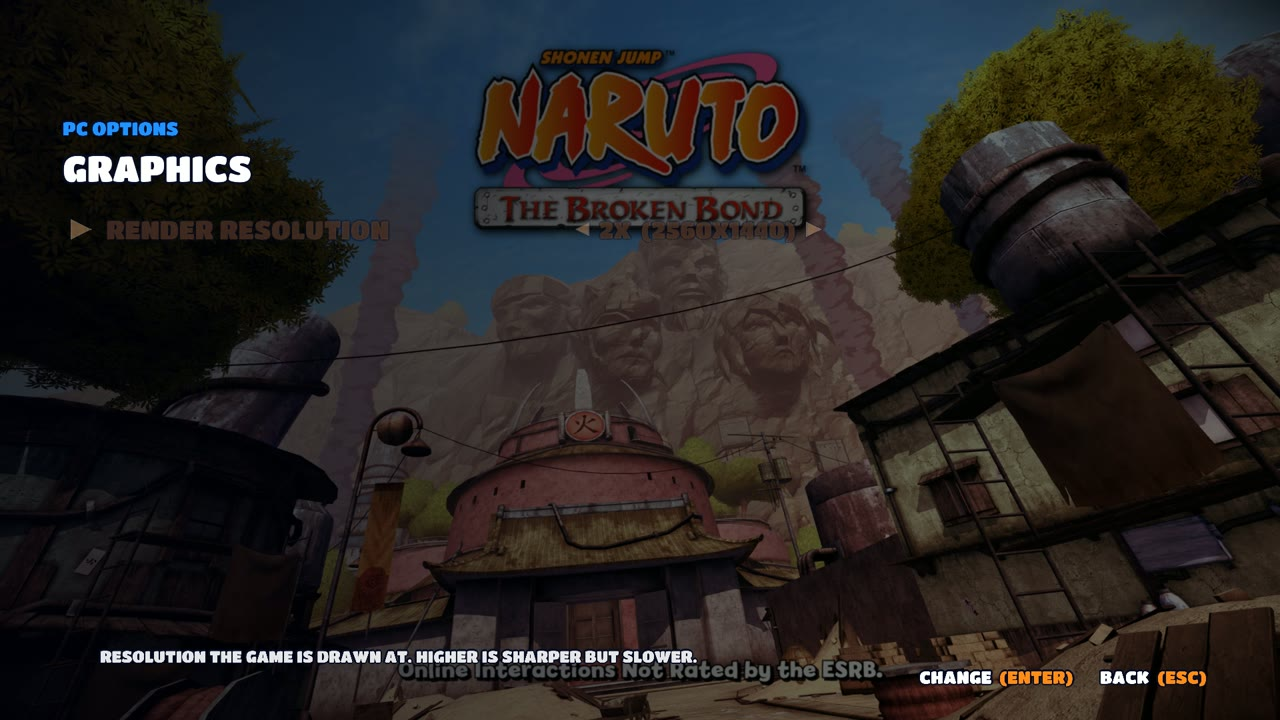
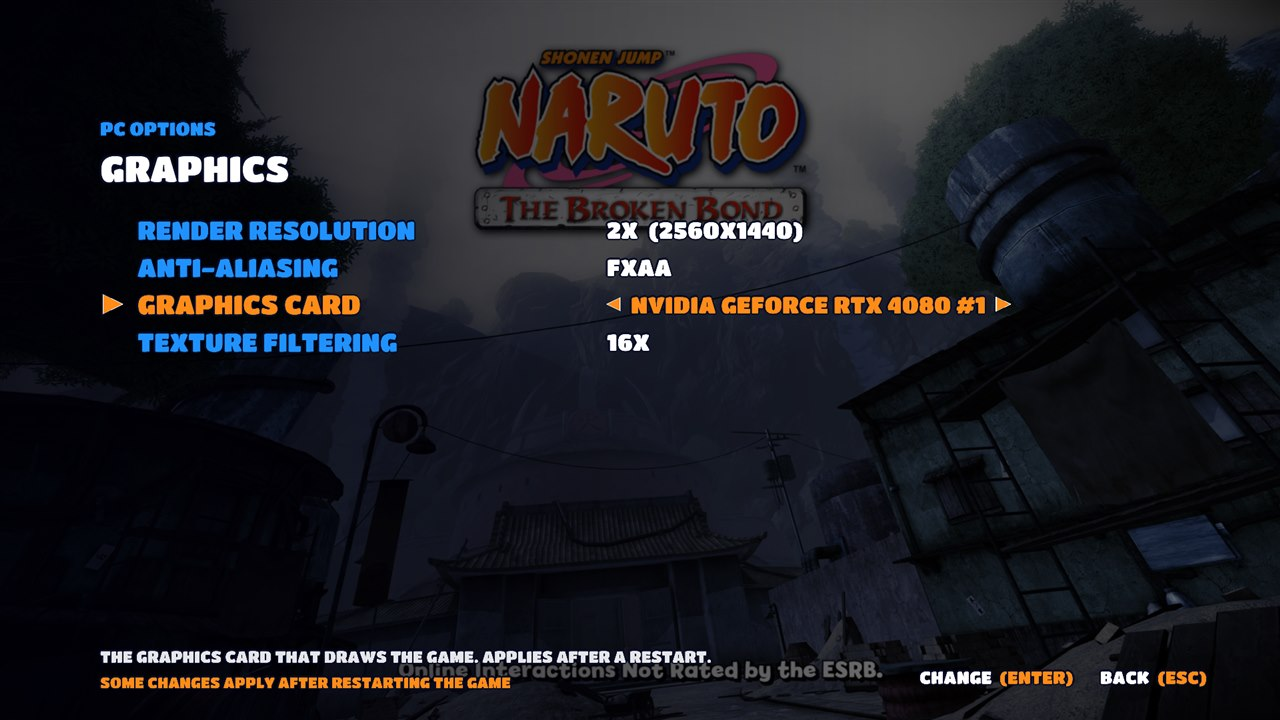
v1.1: ultrawide aspect ratios and graphics card picker
- PC Options > Display > Aspect Ratio: 16:9, 21:9, 32:9 or automatic. The game's camera sees
  wider and the presenter stretches the frame to the wider shape (the Rise of a Ninja port's
  method; the SDK patch now includes the presenter change).
- PC Options > Graphics > Graphics Card on PCs with more than one card; settings the engine only
  reads at startup can now be changed in the menu and apply after a restart.
- README: new features and screenshots, mouse camera known issue.

diff --git a/app/src/options_menu.cpp b/app/src/options_menu.cpp
@@ -5,6 +5,7 @@
 #include <cmath>
 #include <cstdlib>
 #include <fstream>
+#include <map>
 #include <utility>
 
 #include <imgui.h>
@@ -175,7 +176,12 @@ bool RequiresRestart(const std::string& name) {
 }
 
 // "window_size" is not a real setting: it reads and writes window_width/window_height together.
+// Settings the engine only reads at startup (such as the graphics card) refuse changes while the
+// game runs: the new value is kept here, shown in the menu and saved, and applies after a restart.
+std::map<std::string, std::string> g_pending;
+
 std::string GetSetting(const std::string& name) {
+  if (const auto it = g_pending.find(name); it != g_pending.end()) return it->second;
   if (name == "window_size") {
     const std::string w = rex::cvar::GetFlagByName("window_width");
     const std::string h = rex::cvar::GetFlagByName("window_height");
@@ -196,7 +202,7 @@ std::string PadCvar(const char* kind, int button, int index = -1) {
 }
 
 std::string TomlLine(const std::string& name) {
-  const std::string value = rex::cvar::GetFlagByName(name);
+  const std::string value = GetSetting(name);
   for (const auto& entry : rex::cvar::GetRegistry()) {
     if (entry.name == name && entry.type != rex::cvar::FlagType::String) {
       return name + " = " + value;
@@ -318,6 +324,10 @@ void OptionsMenu::BuildPages() {
                                   {"2560X1440", "2560x1440"},
                                   {"3840X2160", "3840x2160"}},
                                  "Size of the game window when it is not fullscreen."));
+  display.items.push_back(choice("ASPECT RATIO", "aspect_ratio",
+                                 {{"16:9", "16:9"}, {"21:9", "21:9"}, {"32:9", "32:9"},
+                                  {"AUTOMATIC", "auto"}},
+                                 "Wider screens see more of the world. Automatic matches your screen."));
   display.items.push_back(toggle("VERTICAL SYNC", "vsync", "Removes tearing. Keep it on."));
   display.items.push_back(toggle("G-SYNC / FREESYNC", "d3d12_allow_variable_refresh_rate_and_tearing",
                                  "Lets a variable refresh rate monitor follow the game."));
@@ -340,6 +350,27 @@ void OptionsMenu::BuildPages() {
   graphics.items.push_back(choice("ANTI-ALIASING", "swap_post_effect",
                                   {{"OFF", "none"}, {"FXAA", "fxaa"}, {"FXAA EXTREME", "fxaa_extreme"}},
                                   "Smooths jagged edges."));
+  {
+    // Graphics card: automatic, or one of the cards found (laptops often have two).
+    std::vector<Choice> cards = {{"AUTOMATIC", "-1"}};
+    const auto found = ListGraphicsCards();
+    for (size_t i = 0; i < found.size(); ++i) {
+      // The same card can be listed more than once (virtual machines): number the copies.
+      std::string label = Upper(found[i].second);
+      int same = 0, nth = 0;
+      for (size_t j = 0; j < found.size(); ++j) {
+        if (found[j].second != found[i].second) continue;
+        ++same;
+        if (j <= i) ++nth;
+      }
+      if (same > 1) label += " #" + std::to_string(nth);
+      cards.push_back({label, std::to_string(found[i].first)});
+    }
+    if (cards.size() > 2) {
+      graphics.items.push_back(choice("GRAPHICS CARD", "d3d12_adapter", cards,
+                                      "The graphics card that draws the game. Applies after a restart."));
+    }
+  }
   graphics.items.push_back(choice("TEXTURE FILTERING", "anisotropic_override",
                                   {{"GAME DEFAULT", "-1"},
                                    {"OFF", "0"},
@@ -620,10 +651,15 @@ void OptionsMenu::Set(const std::string& name, const std::string& value) {
     Set("window_height", value.substr(x + 1));
     return;
   }
-  if (rex::cvar::GetFlagByName(name) == value) {
+  if (GetSetting(name) == value) {
     return;
   }
-  rex::cvar::SetFlagByName(name, value);
+  if (rex::cvar::SetFlagByName(name, value)) {
+    g_pending.erase(name);
+  } else {
+    g_pending[name] = value;  // read only at startup: saved now, applied after a restart
+    restart_needed_ = true;
+  }
   changed_.insert(name);
   if (name == "log_to_file") {
     rex::SetFileLogging(value == "true");

diff --git a/app/src/ultrawide.cpp b/app/src/ultrawide.cpp
@@ -1,0 +1,97 @@
+// Ultrawide (PC Options > Display > Aspect Ratio), the way the Naruto: Rise of a Ninja port does it
+// (naruto-rise-recomp, GPL-3.0): the game's camera keeps a 9/16 constant for the width of its view;
+// replacing it with 1/aspect makes the game render a wider view squeezed into its 16:9 frame, and
+// the SDK's presenter (ultrawide_target_aspect, see the SDK patch) stretches that frame back out
+// to the wider shape. The HUD is stretched along with it.
+
+#include "ultrawide.h"
+
+#define WIN32_LEAN_AND_MEAN
+#define NOMINMAX
+#include <windows.h>
+
+#include <bit>
+#include <cmath>
+#include <cstdint>
+#include <cstring>
+#include <string>
+
+#include <rex/cvar.h>
+#include <rex/logging.h>
+#include <rex/memory/utils.h>
+
+REXCVAR_DEFINE_STRING(aspect_ratio, "16:9", "Display",
+                      "Aspect ratio of the picture: 16:9, 21:9, 32:9 or auto (the screen's)")
+    .allowed({"16:9", "21:9", "32:9", "auto"})
+    .lifecycle(rex::cvar::Lifecycle::kHotReload);
+REXCVAR_DEFINE_DOUBLE(ultrawide_target_aspect, 0.0, "Display",
+                      "Set by the game from aspect_ratio (0 = 16:9); read by the presenter");
+
+namespace {
+
+constexpr float kNativeAspect = 16.0f / 9.0f;
+// The camera's 9/16 view-width constant in Broken Bond's default.xex (found by changing it live
+// and watching the view widen; Rise of a Ninja keeps the same constant at 0x826F5108).
+constexpr uint32_t kViewWidthFactorAddress = 0x8209F4D0;
+constexpr float kOriginalFactor = 9.0f / 16.0f;
+
+float g_applied_factor = kOriginalFactor;
+
+uint32_t LoadU32(const uint8_t* base, uint32_t address) {
+  uint32_t raw;
+  std::memcpy(&raw, base + address, sizeof(raw));
+  return std::byteswap(raw);
+}
+
+void StoreU32(uint8_t* base, uint32_t address, uint32_t value) {
+  const uint32_t raw = std::byteswap(value);
+  std::memcpy(base + address, &raw, sizeof(raw));
+}
+
+double TargetAspect() {
+  const std::string mode = REXCVAR_GET(aspect_ratio);
+  if (mode == "21:9") return 21.5 / 9.0;  // 3440x1440 and 2560x1080 screens
+  if (mode == "32:9") return 32.0 / 9.0;
+  if (mode == "auto") {
+    const double w = GetSystemMetrics(SM_CXSCREEN);
+    const double h = GetSystemMetrics(SM_CYSCREEN);
+    if (h > 0 && w / h > 1.85) return w / h;
+  }
+  return kNativeAspect;
+}
+
+}  // namespace
+
+void UpdateUltrawide(uint8_t* base) {
+  if (!base) return;
+  const double aspect = TargetAspect();
+  const bool wide = aspect > kNativeAspect + 0.05;
+  const float factor = wide ? static_cast<float>(1.0 / aspect) : kOriginalFactor;
+  const double presenter_aspect = wide ? aspect : 0.0;
+  if (REXCVAR_GET(ultrawide_target_aspect) != presenter_aspect) {
+    REXCVAR_SET(ultrawide_target_aspect, presenter_aspect);
+  }
+  if (factor == g_applied_factor) return;
+
+  const uint32_t current = LoadU32(base, kViewWidthFactorAddress);
+  if (current != std::bit_cast<uint32_t>(kOriginalFactor) &&
+      current != std::bit_cast<uint32_t>(g_applied_factor)) {
+    REXLOG_ERROR("[ultrawide] unexpected value {:08X} at {:08X}; not changing it", current,
+                 kViewWidthFactorAddress);
+    g_applied_factor = factor;  // don't retry every frame
+    return;
+  }
+  void* where = base + kViewWidthFactorAddress;
+  rex::memory::PageAccess old_access{};
+  if (!rex::memory::Protect(where, sizeof(uint32_t), rex::memory::PageAccess::kReadWrite,
+                            &old_access)) {
+    REXLOG_ERROR("[ultrawide] cannot make the camera constant writable");
+    g_applied_factor = factor;
+    return;
+  }
+  StoreU32(base, kViewWidthFactorAddress, std::bit_cast<uint32_t>(factor));
+  rex::memory::Protect(where, sizeof(uint32_t), old_access);
+  g_applied_factor = factor;
+  REXLOG_INFO("[ultrawide] aspect {:.4f}, view width factor {:.6f}", wide ? aspect : kNativeAspect,
+              factor);
+}

diff --git a/app/src/pad_input.cpp b/app/src/pad_input.cpp
@@ -6,6 +6,7 @@
 #define NOMINMAX
 #include <windows.h>
 #include <Xinput.h>
+#include <dxgi1_2.h>
 
 namespace {
 
@@ -102,4 +103,24 @@ bool ReadResource(int id, const void** data, size_t* size) {
   *data = bytes;
   *size = SizeofResource(module, info);
   return true;
+}
+
+std::vector<std::pair<int, std::string>> ListGraphicsCards() {
+  std::vector<std::pair<int, std::string>> cards;
+  IDXGIFactory1* factory = nullptr;
+  if (FAILED(CreateDXGIFactory1(__uuidof(IDXGIFactory1), reinterpret_cast<void**>(&factory)))) {
+    return cards;
+  }
+  IDXGIAdapter1* adapter = nullptr;
+  for (UINT i = 0; factory->EnumAdapters1(i, &adapter) == S_OK; ++i) {
+    DXGI_ADAPTER_DESC1 desc{};
+    if (SUCCEEDED(adapter->GetDesc1(&desc)) && !(desc.Flags & DXGI_ADAPTER_FLAG_SOFTWARE)) {
+      char name[256] = {};
+      WideCharToMultiByte(CP_UTF8, 0, desc.Description, -1, name, sizeof(name), nullptr, nullptr);
+      cards.emplace_back(static_cast<int>(i), name);
+    }
+    adapter->Release();
+  }
+  factory->Release();
+  return cards;
 }

diff --git a/app/src/narutobb_app.h b/app/src/narutobb_app.h
@@ -28,6 +28,7 @@
 #include "pad_input.h"
 #include "player_assignment.h"
 #include "title_screen.h"
+#include "ultrawide.h"
 
 // Guest frame rate for the F3 overlay: the command processor times every guest swap and keeps the
 // result in the perf counter registry, so this is the speed the game itself runs at.
@@ -237,6 +238,8 @@ class NarutobbApp : public rex::ReXApp {
 
   // Back + Start on a controller opens or closes the PC options menu.
   void PollControllerShortcut() {
+    // Also the per-frame place for the aspect ratio setting (PC Options > Display).
+    UpdateUltrawide(runtime() ? runtime()->virtual_membase() : nullptr);
     const uint32_t pads = ReadPads();
     const bool held = (pads & kPadBack) && (pads & kPadStart);
     if (held && !shortcut_held_) {

diff --git a/app/src/pad_input.h b/app/src/pad_input.h
@@ -5,6 +5,9 @@
 
 #include <cstddef>
 #include <cstdint>
+#include <string>
+#include <utility>
+#include <vector>
 
 // Controller buttons the menu reads, as bits.
 enum PadBit : uint32_t {
@@ -43,3 +46,7 @@ bool ReadResource(int id, const void** data, size_t* size);
 
 // A Windows error box titled with the game's name.
 void ShowGameError(const char* text);
+
+// Graphics cards that can run the game, as (DXGI adapter index, name), in the order the SDK's
+// d3d12_adapter setting counts them.
+std::vector<std::pair<int, std::string>> ListGraphicsCards();

diff --git a/app/src/ultrawide.h b/app/src/ultrawide.h
@@ -1,0 +1,9 @@
+// Ultrawide aspect ratios (PC Options > Display > Aspect Ratio). See ultrawide.cpp.
+
+#pragma once
+
+#include <cstdint>
+
+// Applies the aspect_ratio setting to the game's camera and the presenter. Cheap when nothing
+// changed, so it is called every frame.
+void UpdateUltrawide(uint8_t* guest_memory);

diff --git a/README.md b/README.md
@@ -31,11 +31,14 @@ The first start can take a moment while Windows scans the new program.
 |---|---|
 | ![PC Options](docs/images/pc-options.jpg) | ![Controller layout](docs/images/controller-layout.jpg) |
 | ![Auto Jutsu](docs/images/auto-jutsu.jpg) | ![Key bindings](docs/images/key-bindings.jpg) |
+| ![Display: aspect ratio](docs/images/display.jpg) | ![Graphics: graphics card](docs/images/graphics.jpg) |
 
 - **PC Options menu** (F1 or Back + Start), styled like the game's own menus, usable with keyboard,
   mouse or controller. Every change is saved to `naruto.toml`.
-  - **Display:** fullscreen or windowed, window size, V-Sync, FPS counter.
-  - **Graphics:** render resolution (up to 4K), anti-aliasing, texture filtering.
+  - **Display:** fullscreen or windowed, window size, **aspect ratio (16:9, 21:9, 32:9 or
+    automatic)**, V-Sync, G-Sync / FreeSync, FPS counter.
+  - **Graphics:** render resolution (up to 4K), anti-aliasing, **graphics card** (on PCs with more
+    than one), texture filtering.
   - **Controls:** play with the keyboard, keyboard as player 1 or 2, mouse camera, full key
     remapping with normal / toggle / turbo presses.
   - **Controller layout:** separate layouts for **Controller 1** and **Controller 2**. Pick a button
@@ -49,6 +52,11 @@ The first start can take a moment while Windows scans the new program.
   - Controller: hold your jutsu button (**LT**) and press **A, B, Y or X**.
   - Keep holding to charge the jutsu, let go to release it. Jutsu 1–4 follow the order of the
     game's jutsu menu, and every character works. You still need enough chakra.
+- **Ultrawide:** with 21:9 or 32:9 the game shows more of the world at the sides instead of
+  stretching it (the same method as the Rise of a Ninja port). The game's own menus and HUD are
+  drawn wider.
+
+  ![21:9 on a 16:9 screen](docs/images/ultrawide-21-9.jpg)
 - **PC title screen** at start (30 seconds, or press Enter), and the intro videos can be skipped.
 - **Save Backup Tool:** run `Save Backup Tool\Save Backup Tool.bat` to zip your saves. Share the
   zip if you need help with a save problem.
@@ -93,6 +101,8 @@ you want to be safe.
 
 - Menus, the free-roaming parts and Story Mode scenes run at 30 FPS, the game's own limit there.
   Fights run at up to 60 FPS.
+- Mouse camera (PC Options > Controls > Mouse Moves Camera) works like a controller stick, so it
+  doesn't feel like a PC mouse yet.
 - Some virtual controller drivers (DS4Windows / ViGEm, Rainway) make a controller show as
   "connected" even when it's unplugged.
 
